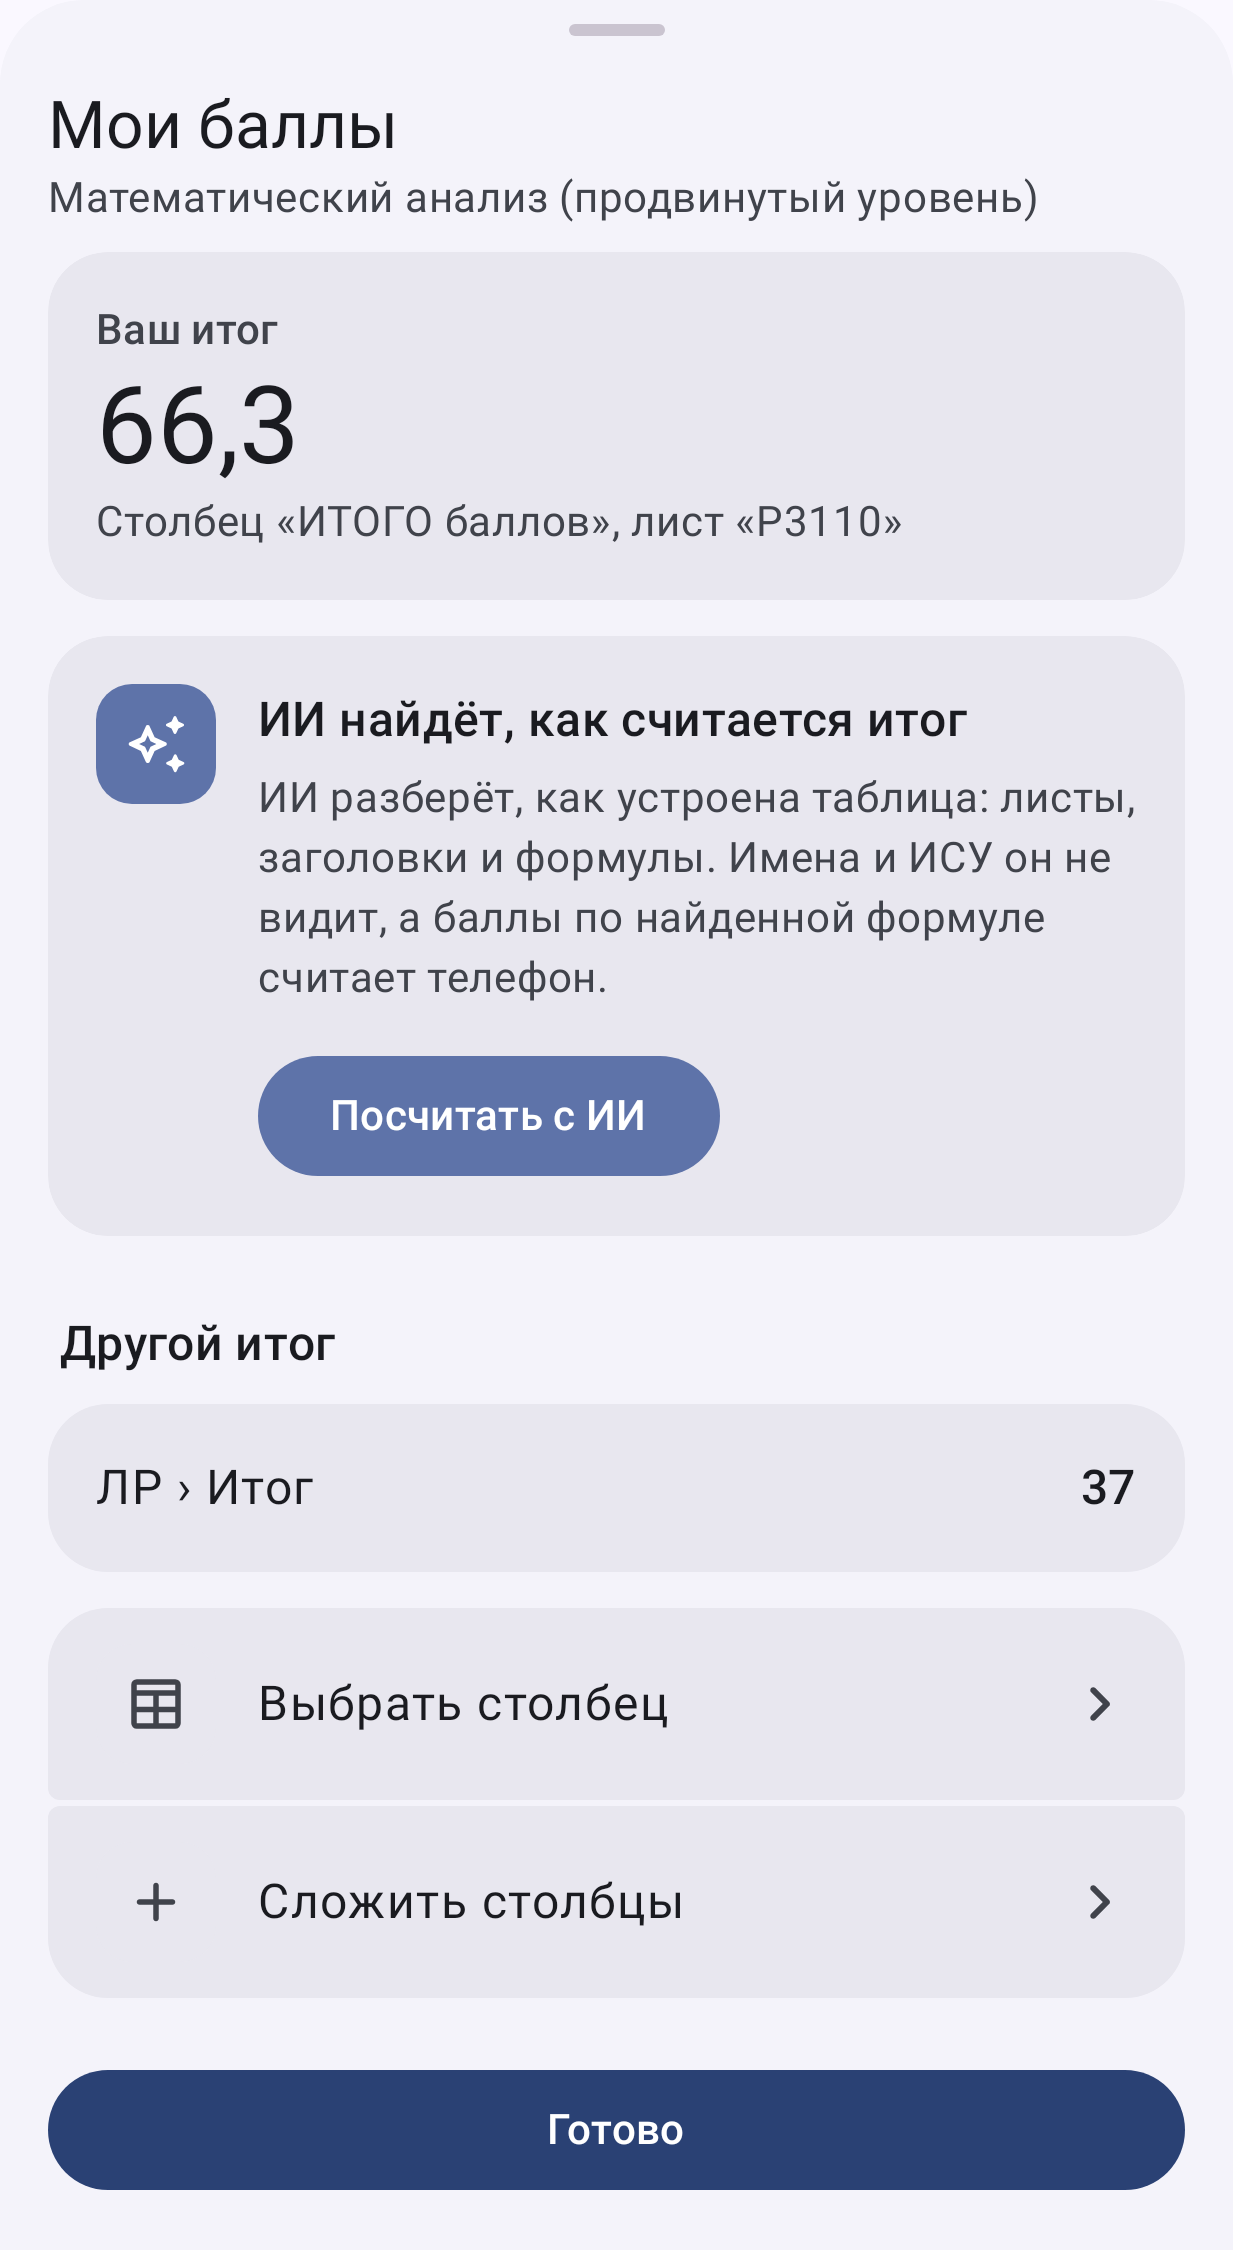
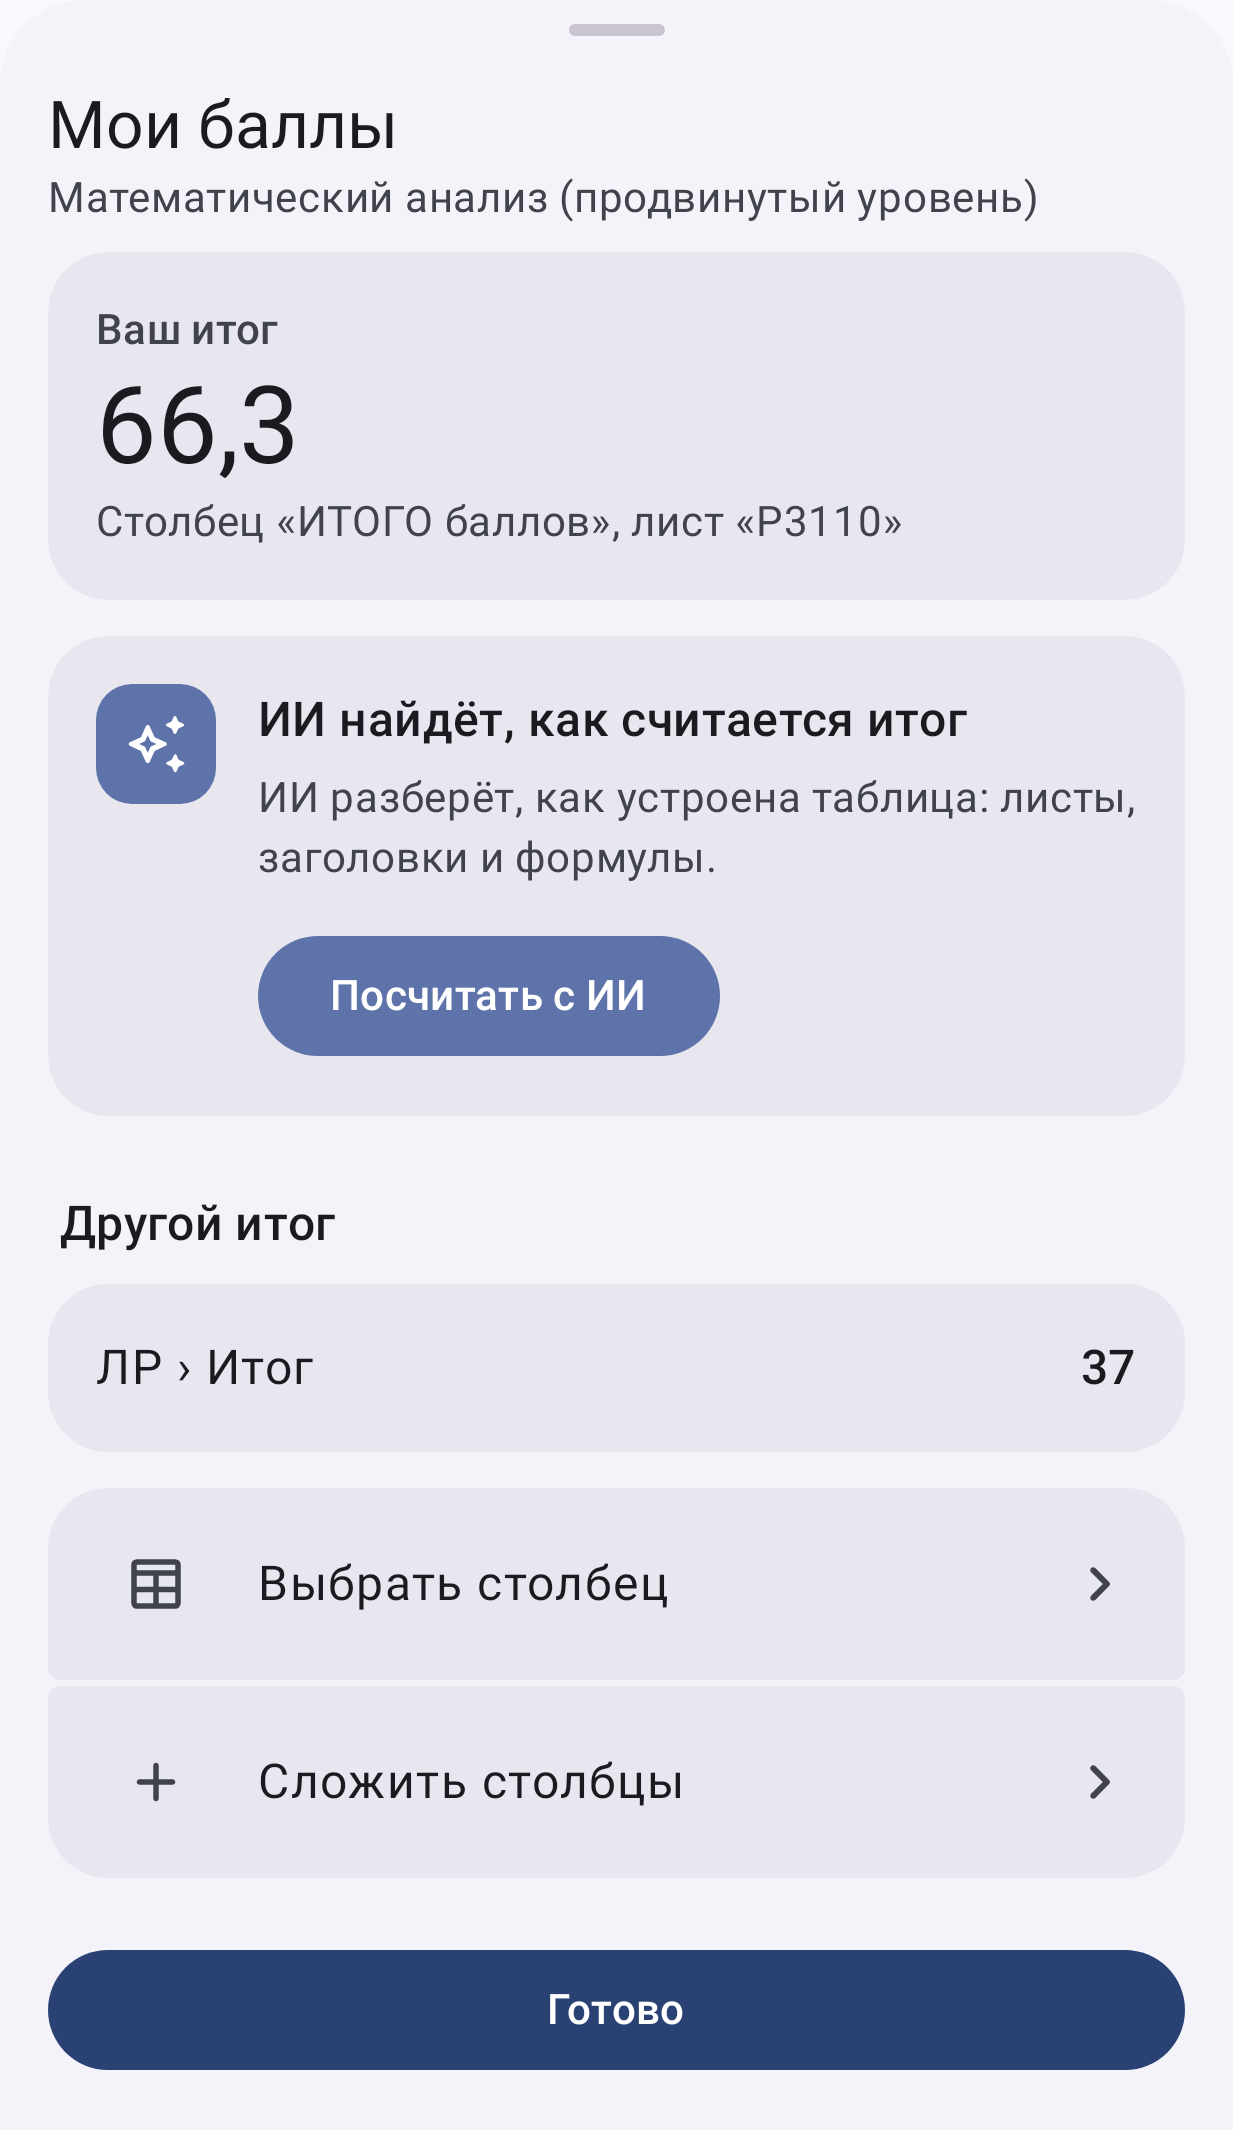
Sheet scores: shorter AI card note

diff --git a/shared/feature-recordbook/src/androidHostTest/kotlin/dev/alllexey/itmowidgets/feature/recordbook/ui/sheets/SheetScoresSheetTest.kt b/shared/feature-recordbook/src/androidHostTest/kotlin/dev/alllexey/itmowidgets/feature/recordbook/ui/sheets/SheetScoresSheetTest.kt
@@ -316,7 +316,7 @@ class SheetScoresSheetTest {
 
         onNodeWithTag(SheetScoresSheetTestTags.LIST).performScrollToNode(hasTestTag(SheetScoresSheetTestTags.AI))
         assertShown("ИИ найдёт, как считается итог")
-        assertTrue(onAllNodesWithText("Имена и ИСУ он не видит", substring = true).fetchSemanticsNodes().isNotEmpty())
+        assertTrue(onAllNodesWithText("листы, заголовки и формулы", substring = true).fetchSemanticsNodes().isNotEmpty())
         scrollTo("Посчитать с ИИ")
         onNodeWithText("Посчитать с ИИ", useUnmergedTree = true).performClick()
         assertEquals(listOf<Any>("analyze"), calls)

diff --git a/docs/features/sheet-scores.md b/docs/features/sheet-scores.md
@@ -131,9 +131,8 @@ one screen that saves and two pages (`TotalPage`):
   one, else a rule Backend already has; nothing chosen shows `Итог не найден` with `В таблице нет столбца «Итог»` or
   `В вашей строке пока нет баллов`.
 - Right under it, for a shared sheet whose rule is not known yet, the AI's action card (`ActionCard`, iOS
-  `ItmoActionCard`, `auto_awesome`): `ИИ найдёт, как считается итог`, what it does and never sees (`ИИ разберёт, как
-  устроена таблица: листы, заголовки и формулы. Имена и ИСУ он не видит, а баллы по найденной формуле считает
-  телефон.`) and the tonal `Посчитать с ИИ`. While Backend answers the button shows its progress and the line says
+  `ItmoActionCard`, `auto_awesome`): `ИИ найдёт, как считается итог`, what it does (`ИИ разберёт, как устроена
+  таблица: листы, заголовки и формулы.`) and the tonal `Посчитать с ИИ`. While Backend answers the button shows its progress and the line says
   `Разбираем таблицу, обычно до минуты`; a failure takes the line (`ИИ не понял, как считаются баллы`) and the button
   asks again. The card is gone once a rule is known (it is a variant then) and while an AI total is on top.
 - `Другой итог` (`Как найти итог` while nothing is chosen): the other ready totals (`variants`), never the one on

diff --git a/CHANGELOG.md b/CHANGELOG.md
@@ -10,7 +10,7 @@ publication or deployment.
   reads the rule Backend already keeps for the sheet (`GET`, never an analysis) and shows it as a variant at once;
   only `Посчитать с ИИ` or the new `Пересчитать с ИИ` under an AI total ask for one (`POST`), and a stale rule is
   waited for while Backend checks it. The connected AI rule read again is that total, not a second variant.
-- Sheet scores: `Посчитать с ИИ` is an action card right under `Ваш итог` that says what the AI reads and never sees,
+- Sheet scores: `Посчитать с ИИ` is an action card right under `Ваш итог` that says what the AI reads,
   with its progress in the button, instead of a plain row at the bottom of the ways.
 - Subject page: `Мои баллы из таблицы` stands right under the hero of `Баллы`, whose number the sheet would become,
   instead of at the end of the page beside the BARS offer.
